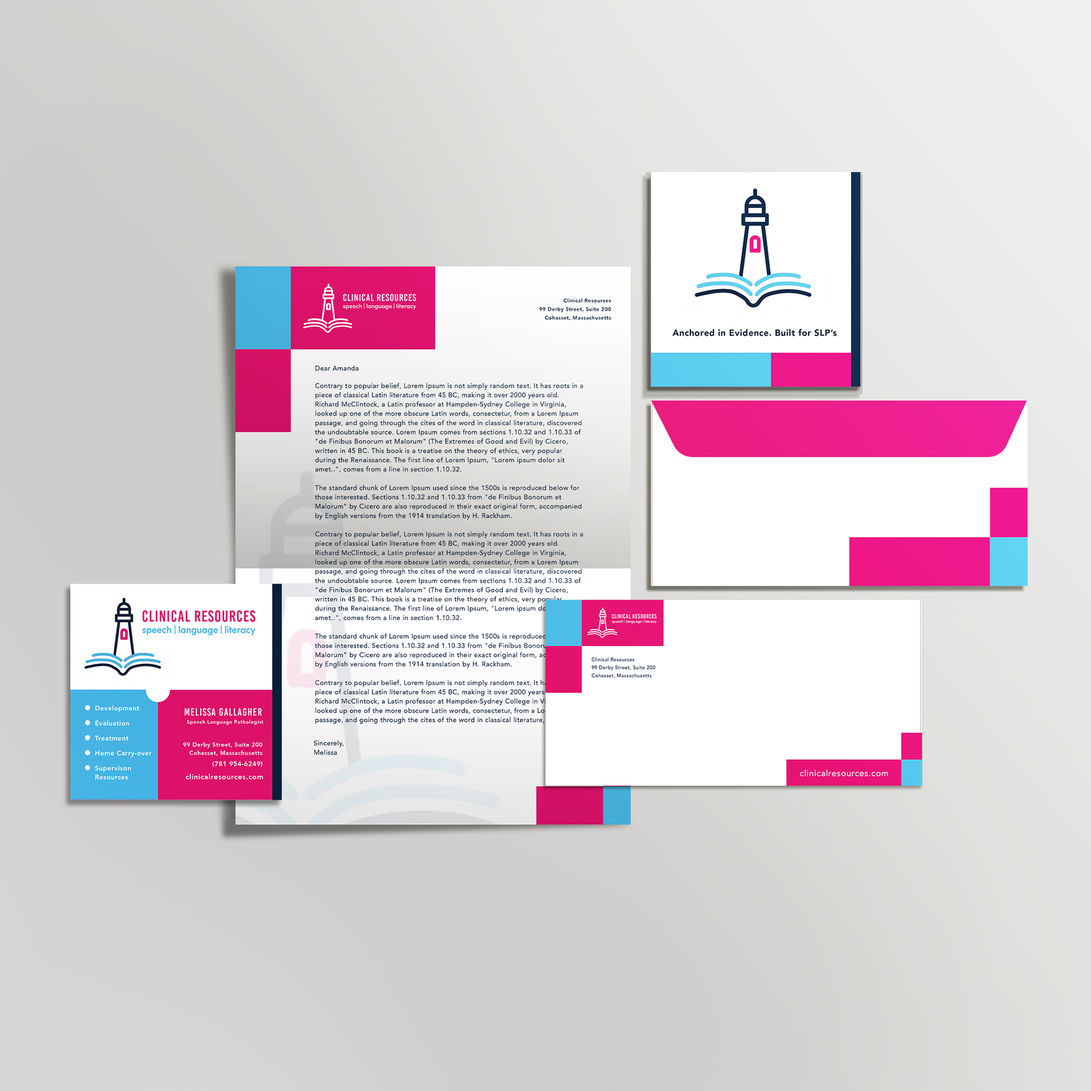
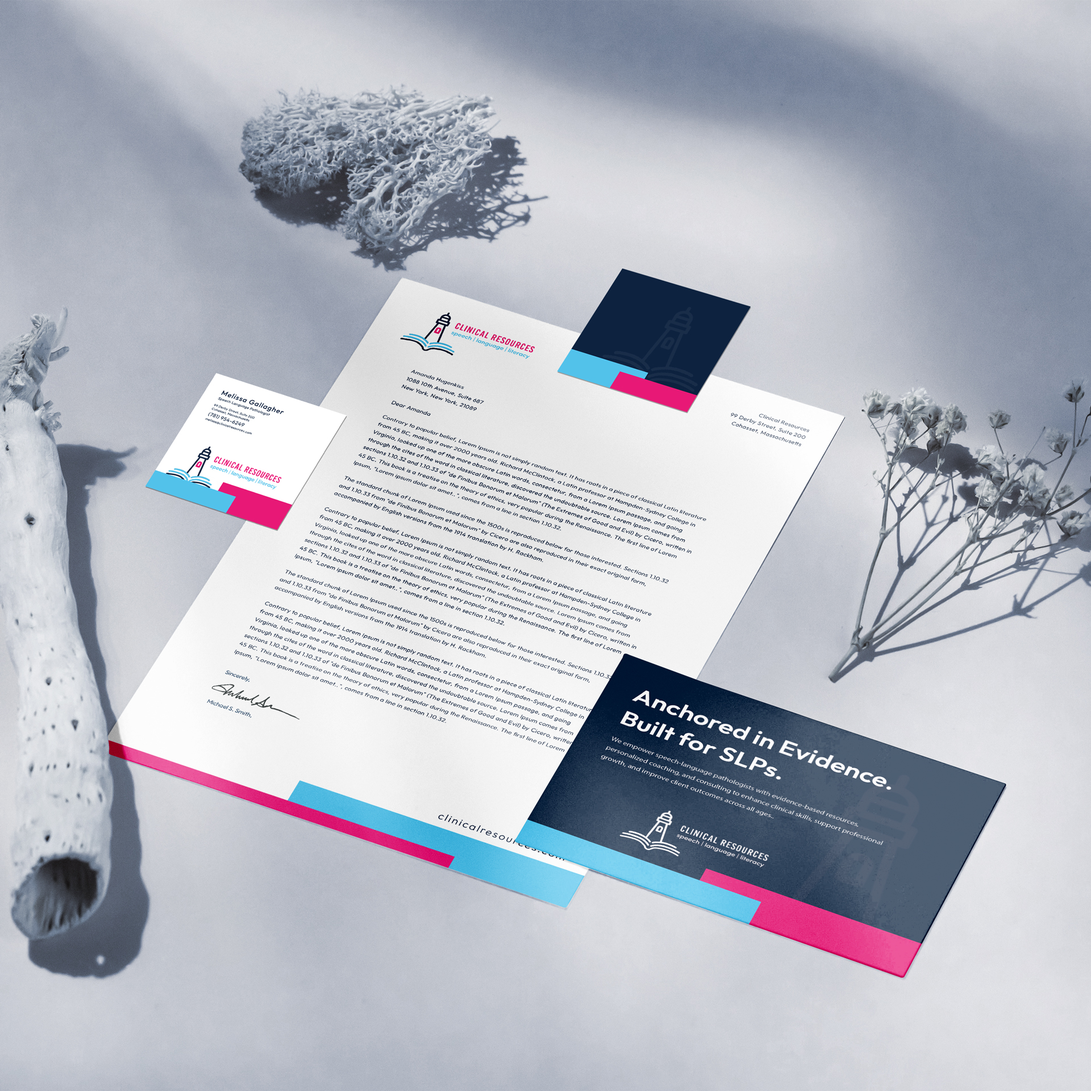
feat: add email campaign section to clinical resources portfolio entry

diff --git a/server/src/projects/seed.service.ts b/server/src/projects/seed.service.ts
@@ -14,7 +14,7 @@ export class SeedService implements OnModuleInit {
   ) {}
 
   async onModuleInit() {
-    const SEEDER_VERSION = 'v8011';
+    const SEEDER_VERSION = 'v8014';
     console.log(
       `Zencoder Trigger: Starting project seeding process [${SEEDER_VERSION}]...`,
     );
@@ -50,9 +50,12 @@ export class SeedService implements OnModuleInit {
             '/assets/projects/clinical/Landing Page/clinical-resources-desktop.jpg',
             '/assets/projects/clinical/Landing Page/clinical-resources-tablet.jpg',
             '/assets/projects/clinical/Landing Page/clinical-resources-mobile.jpg',
+            '/assets/projects/clinical/email/clinical-email-template.jpg',
+            '/assets/projects/clinical/email/clinical-email-mockup.jpg',
             '/assets/projects/clinical/Print/clinical-resources-bizcard-mockup.jpg',
             '/assets/projects/clinical/Print/clinical-resources-brochure.jpg',
             '/assets/projects/clinical/Print/clinical-resources-letterhead.jpg',
+            '/assets/projects/clinical/Print/clinical-resources-stationary.jpg',
           ],
           mockupUrl:
             '/assets/projects/clinical/clinical-resources-device-mockup-trasnparent-bg.png',

diff --git a/client/src/app/components/print-detail/print-detail.html b/client/src/app/components/print-detail/print-detail.html
@@ -577,6 +577,22 @@
             </div>
           </div>
         </section>
+        
+        <section class="email-mockups email-mockups-floating">
+          <div class="campaigns-wrap">
+            <h2>Email Campaign</h2>
+            <div class="email-layout-floating">
+              <div class="email-featured-floating">
+                <img src="/assets/projects/clinical/email/clinical-email-template.jpg" alt="Clinical Resources Email Template" class="ad-tile" data-modal-src="/assets/projects/clinical/email/clinical-email-template.jpg" data-meta="Email Template Design">
+                <p class="email-caption">Email Template Design</p>
+              </div>
+              <div class="email-secondary-floating">
+                <img src="/assets/projects/clinical/email/clinical-email-mockup.jpg" alt="Clinical Resources Gmail Inbox Mockup" class="ad-tile" data-modal-src="/assets/projects/clinical/email/clinical-email-mockup.jpg" data-meta="Gmail Inbox Mockup">
+                <p class="email-caption">Gmail Inbox Mockup</p>
+              </div>
+            </div>
+          </div>
+        </section>
 
         <div class="clinical-print-layout">
           <div class="campaigns-wrap">
